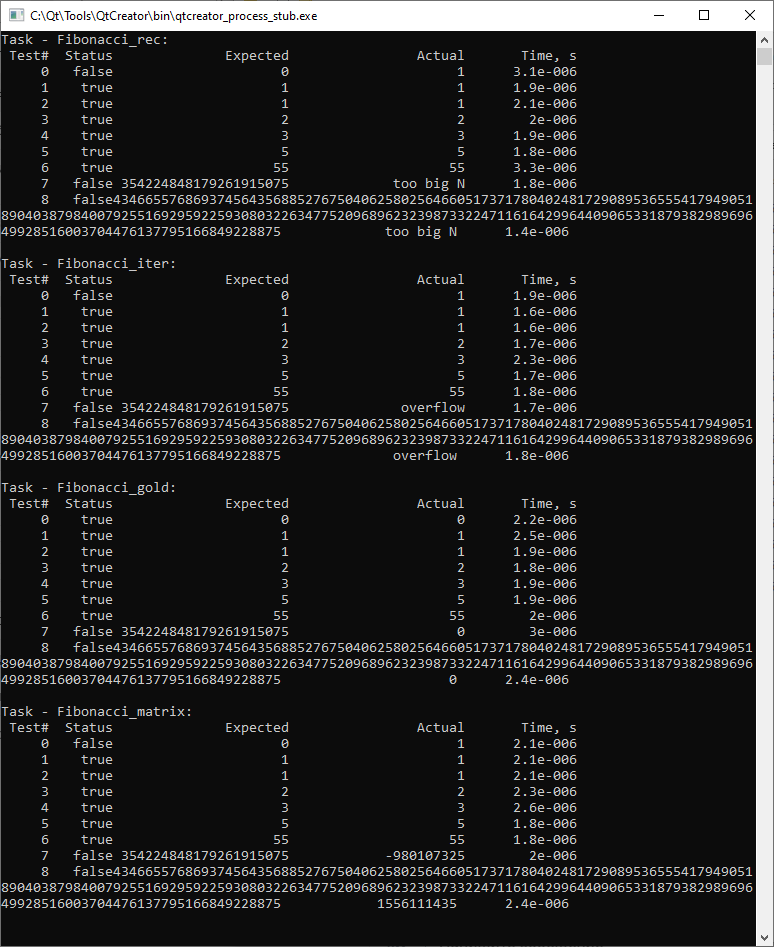
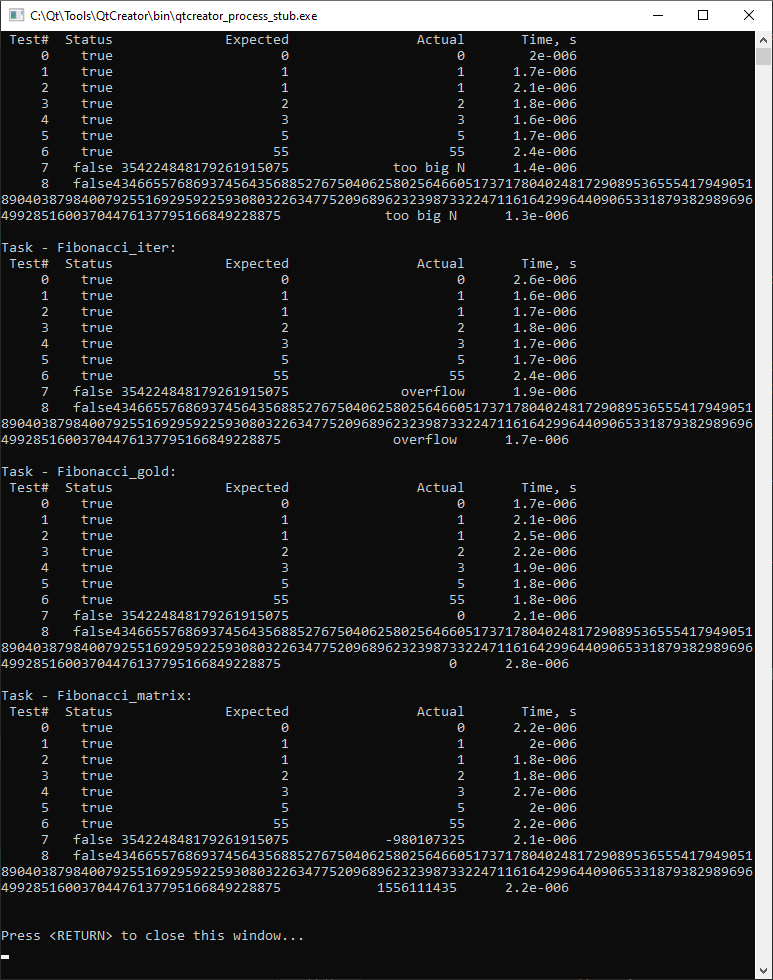
Add files via upload

Changed region(s): [[0.0, 0.0, 1.0, 1.0]]

diff --git a/fibonacci.cpp b/fibonacci.cpp
@@ -32,6 +32,9 @@ uint64_t ConvertVectorToUint64(const vector<string> &_data)
 
 uint64_t FibonacciRecursive(uint64_t N)
 {
+    if (N == 0)
+        return 0;
+
     if (N <= 2)
         return 1;
 
@@ -60,7 +63,9 @@ string Fibonacci_iter::Run(const vector<string> &_data)
 
     uint64_t res;
 
-    if (N <= 2)
+    if (N == 0)
+        res = 0;
+    else if (N <= 2)
         res = 1;
     else
     {
@@ -88,6 +93,9 @@ string Fibonacci_gold::Run(const vector<string> &_data)
         return "_data.empty()";
 
     uint64_t N = ConvertVectorToUint64(_data);
+
+    if (N == 0)
+        return to_string(0);
 
     long double phi = (1.0l + sqrt(5.0l))/2.0l;
 
@@ -136,6 +144,9 @@ string Fibonacci_matrix::Run(const vector<string> &_data)
         return "_data.empty()";
 
     uint64_t N = ConvertVectorToUint64(_data);
+
+    if (N == 0)
+        return to_string(0);
 
     Matrix2D res;
     res.SetIdentity();
